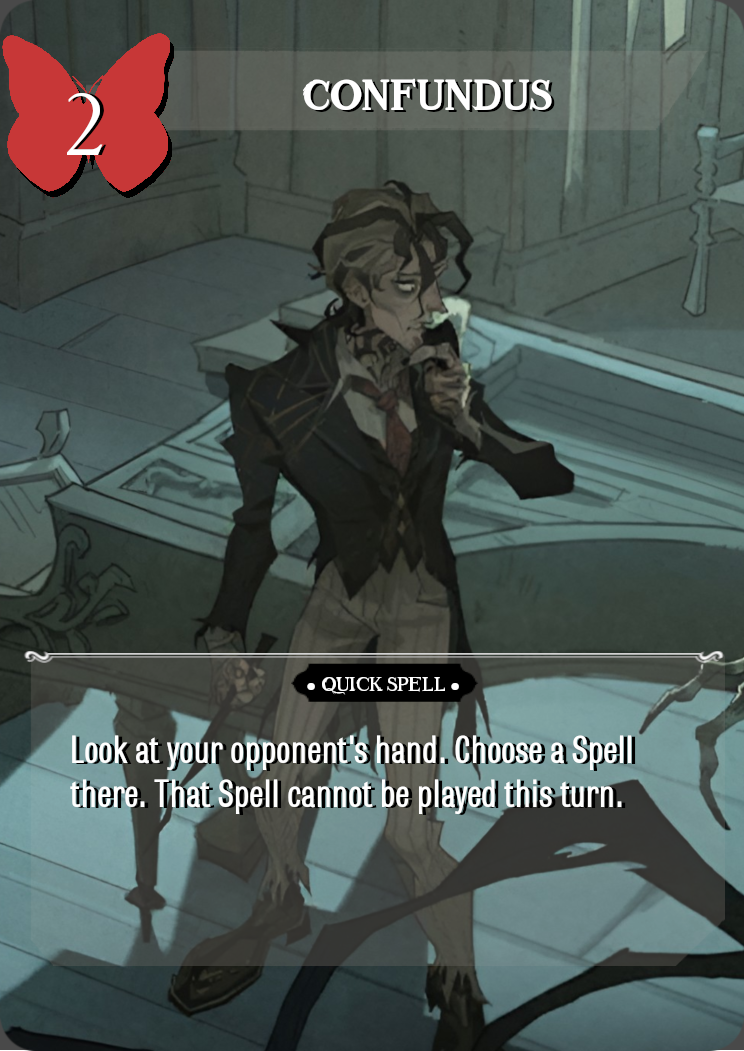
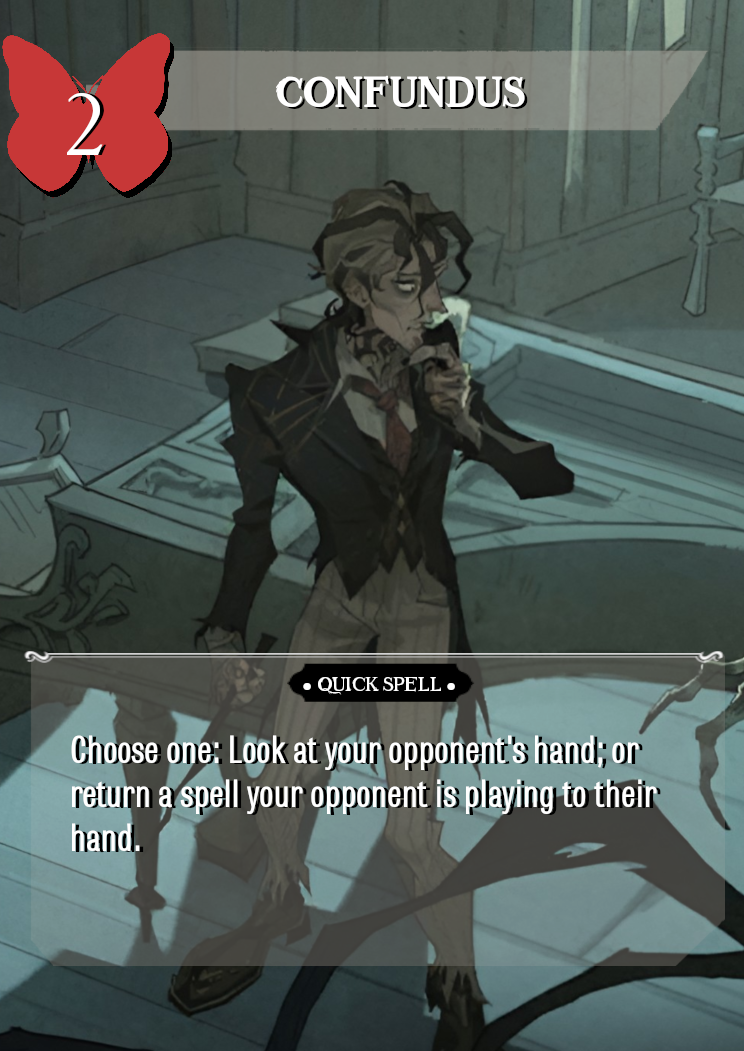
v1.72 Wingardium Leviosa

diff --git a/index.html b/index.html
@@ -97,7 +97,7 @@
 <div class="modal" id="deckCodeModal" style="z-index:1100;width:min(620px,94vw)"><div style="display:flex;justify-content:space-between;align-items:center;gap:8px"><h2 id="deckCodeTitle" style="margin:0">Deck Code</h2><button onclick="closeDeckCodeModal()">Close</button></div><p id="deckCodeHelp"></p><textarea id="deckCodeInput" spellcheck="false" style="width:100%;height:135px;resize:vertical;background:#0e1116;color:#eee;border:1px solid #48515e;border-radius:7px;padding:10px;font:12px monospace;margin:8px 0"></textarea><div style="display:flex;justify-content:flex-end;gap:8px"><button id="deckCodeCopy" onclick="copyDeckCode()">Copy Code</button><button id="deckCodeImport" onclick="importDeckCode()">Import Deck</button></div></div><div class="deckModal" id="deckModal"><div class="deckBox"><div class="deckHead"><b id="deckTitle">Deck</b><button onclick="closeDeckViewer()">Close</button></div><div class="deckControls" id="deckControls"></div><div class="deckCards" id="deckCards"></div></div></div><script src="https://cdn.jsdelivr.net/npm/@supabase/supabase-js@2/dist/umd/supabase.js"></script><script>
 let id=1,phase='setup',turn=1,sel=null,selDeck=null,viewPlayer=1;const P={1:newP(),2:newP()};function newP(){return{main:[],lessonDeck:[],hand:[],handRevealed:false,lessons:[],play:[],discard:[],lessonDiscard:[],mull:[],char:null,life:20,actionsLeft:2,lessonsPlayed:0,dobbyUsed:false}}
 let history=[];function snapshot(){return JSON.parse(JSON.stringify({P,phase,turn}));}function pushHistory(){if(phase!=='game')return;history.push(snapshot());if(history.length>50)history.shift();}function undoMove(){if(lobbyMode==='invite'&&onlineStarted){requestOnlineUndo();return}if(phase!=='game'||!history.length){toast('Nothing to undo.');return}let h=history.pop();Object.keys(P).forEach(k=>P[k]=h.P[k]);phase=h.phase;turn=h.turn;sel=null;selDeck=null;render();document.getElementById('status').textContent='Player '+turn+' Turn';toast('Last action undone.')}
-const CARD_DB={"Harry Potter":{"type":"Ally","domain":"Neutral","cost":0,"effect":"Once per turn, when you play your second card, draw 1 card.","image":"cards/allies/char_harry.png"},"Ron Weasley":{"type":"Ally","domain":"Neutral","cost":0,"effect":"When you play an Ally, it costs 1 Action instead of 2.","image":"cards/allies/char_ron.png"},"Hermione Granger":{"type":"Ally","domain":"Neutral","cost":0,"effect":"Once per turn, when you play your second spell, draw 1 Lesson.","image":"cards/allies/char_hermione.png"},"Luna Lovegood":{"type":"Ally","domain":"Neutral","cost":0,"effect":"Once per turn, if you control 6 or more Lessons, you may discard 2 Lessons to create a Thestral Token.","image":"cards/allies/char_luna.png"},"Neville Longbottom":{"type":"Ally","domain":"Neutral","cost":0,"effect":"Once per turn, when you play a Creature, you may restore 2 Health to a Creature or Player.","image":"cards/allies/char_neville.png"},"Dobby":{"type":"Ally","domain":"Neutral","cost":0,"effect":"Once per turn, you may discard 2 Lessons to destroy a Spell targeting you.","image":"cards/allies/char_dobby.png"},"Aquamenti":{"type":"Spell","domain":"Charms","cost":2,"effect":"Deal 2 damage to a Creature or player.","image":"cards/charms/charm_aguamenti.png"},"Flipendo":{"type":"Quick Spell","domain":"Charms","cost":2,"effect":"Return a Creature with a Cost of 3 or less to its owner's hand.","image":"cards/charms/charm_flipendo.png"},"Stupefy":{"type":"Spell","domain":"Charms","cost":2,"effect":"Deal 2 damage to a Creature or Player. If your opponent controls exactly one Creature, deal 2 additional damage to that Creature or the player.","image":"cards/charms/charm_stupefy.png"},"Episkey":{"type":"Spell","domain":"Charms","cost":2,"effect":"Restore 4 Health to a Creature or Player.","image":"cards/charms/charm_episkey.png"},"Expelliarmus":{"type":"Spell","domain":"Charms","cost":3,"effect":"Deal 2 damage to a Player. Additional Cost — Discard 1 Lesson: Destroy an Ongoing Spell or an Item.","image":"cards/charms/charm_expelliarmus.png"},"Priori Incantatem":{"type":"Spell","domain":"Charms","cost":3,"effect":"Discard a card from your hand. Return a Spell from your discard pile to your hand.","image":"cards/charms/charm_priori.png"},"Protego":{"type":"Quick Spell","domain":"Charms","cost":3,"effect":"Shield 5 to a target.","image":"cards/charms/charm_protego.png"},"Atmospheric Charm":{"type":"Spell","domain":"Charms","cost":5,"effect":"Each Player shuffles their hand into their deck, then draws 4 cards.","image":"cards/charms/charm_atmospheric.png"},"Incendio":{"type":"Spell","domain":"Charms","cost":5,"effect":"Deal 4 damage to a target and 1 damage to each other valid target in play.","image":"cards/charms/charm_incendio.png"},"Reducto":{"type":"Spell","domain":"Charms","cost":6,"effect":"Deal 1 damage to your opponent, plus 1 additional damage for each damage they have taken.","image":"cards/charms/charm_reducto.png"},"Wildfire Whiz Bangs":{"type":"Spell","domain":"Charms","cost":7,"effect":"Deal 7 damage to a Creature or Player.","image":"cards/charms/charm_whizbangs.png"},"Apparate":{"type":"Quick Spell","domain":"Transfiguration","cost":1,"effect":"Choose one: Destroy a Location; or destroy a Spell targeting you.","image":"cards/transfiguration/transf_apparate.png"},"Avis":{"type":"Spell","domain":"Transfiguration","cost":2,"effect":"Additional Cost — Discard 1 Transfiguration Lesson: Create 2 Bird Tokens.","image":"cards/transfiguration/transf_avis.png"},"Confundus":{"type":"Quick Spell","domain":"Transfiguration","cost":2,"effect":"Look at your opponent's hand. Choose a Spell there. That Spell cannot be played this turn.","image":"cards/transfiguration/transf_confundus.png"},"Incarcerous":{"type":"Spell","domain":"Transfiguration","cost":2,"effect":"The next Spell you play this turn that targets an opponent's card affects all valid targets controlled by that opponent instead of one.","image":"cards/transfiguration/transf_incarcerous.png"},"Bat Bogey Hex":{"type":"Quick Spell","domain":"Transfiguration","cost":3,"effect":"Destroy a Spell with a Cost of 4 or less. If you do, draw a card.","image":"cards/transfiguration/transf_batbogeyhex.png"},"Glacius":{"type":"Ongoing Spell","domain":"Transfiguration","cost":2,"effect":"Countdown 1: Freeze a target.","image":"cards/transfiguration/transf_glacius.png"},"Glacius Maxima":{"type":"Ongoing Spell","domain":"Transfiguration","cost":4,"effect":"Countdown 2: Freeze up to 3 targets.","image":"cards/transfiguration/transf_glaciusmaxima.png"},"Oppugno":{"type":"Ongoing Spell","domain":"Transfiguration","cost":3,"effect":"Countdown 1: Deal 1 damage to a Player, plus 1 additional damage for every 2 Creatures you control.","image":"cards/transfiguration/transf_oppugno.png"},"Petrificus Totalus":{"type":"Quick Spell","domain":"Transfiguration","cost":3,"effect":"Choose one: Destroy an ally; or freeze a creature.","image":"cards/transfiguration/transf_petrificus.png"},"Carpe Retractum":{"type":"Spell","domain":"Transfiguration","cost":3,"effect":"Return up to 2 items you control to your hand.","image":"cards/transfiguration/transf_carperetractum.png"},"Piertotum Locomotor":{"type":"Spell","domain":"Transfiguration","cost":6,"effect":"Create 2 Stone Guardian Tokens.","image":"cards/transfiguration/transf_piertotum.png"},"Pawn":{"type":"Creature","domain":"Neutral","cost":2,"health":1,"damage":1,"effect":"When this is destroyed: draw 1 card.","image":"cards/creatures/creature_pawn.png"},"Bowtruckle":{"type":"Creature","domain":"Neutral","cost":2,"health":2,"damage":1,"effect":"When this enters play: look at the top 3 cards of your deck. You may reveal an Item among them and put it into your hand. Put the rest on the bottom.","image":"cards/creatures/creature_bowtruckle.png"},"Mooncalf":{"type":"Creature","domain":"Neutral","cost":2,"health":2,"damage":1,"effect":"The first time you play a Lesson each turn: Mooncalf gets +1 Damage until end of turn.","image":"cards/creatures/creature_mooncalf.png"},"Niffler":{"type":"Creature","domain":"Neutral","cost":2,"health":2,"damage":0,"effect":"Niffler counts as a Lesson while in play.","image":"cards/creatures/creature_niffler.png"},"Pixies":{"type":"Creature","domain":"Neutral","cost":2,"health":1,"damage":2,"effect":"When this enters play: if you control another Creature, draw 1 card.","image":"cards/creatures/creature_pixies.png"},"Snowman":{"type":"Creature","domain":"Neutral","cost":2,"health":3,"damage":1,"effect":"When this deals damage to a Player, Freeze an opposing Creature.","image":"cards/creatures/creature_snowman.png"},"Firecrab":{"type":"Creature","domain":"Neutral","cost":3,"health":4,"damage":2,"effect":"Block (You must deal damage to me first).","image":"cards/creatures/creature_firecrab.png"},"Monster Book":{"type":"Creature","domain":"Neutral","cost":3,"health":3,"damage":2,"effect":"When this enters play: return a Spell with Cost 3 or less from your discard pile to your hand.","image":"cards/creatures/creature_mosterbook.png"},"Transfiguration Lesson":{"type":"Lesson","cost":0,"domain":"Transfiguration","image":"cards/lessons/lesson_transfiguration.png"},"Charm Lesson":{"type":"Lesson","cost":0,"domain":"Charms","image":"cards/lessons/lesson_charm.png"},"Quidditch Lesson":{"type":"Lesson","cost":0,"domain":"Quidditch","image":"cards/lessons/lesson_quidditch.png"},"Potions & Items Lesson":{"type":"Lesson","cost":0,"domain":"Potions","image":"cards/lessons/lesson_potions.png"},"Dark Arts Lesson":{"type":"Lesson","cost":0,"domain":"Dark Arts","image":"cards/lessons/lesson_dark.png"},"Flying Broom":{"type":"Item","domain":"Quidditch","cost":2,"effect":"When this enters play, choose one: Draw 1 card or Discard a card to Draw a lesson.","image":"cards/quidditch/quidd_broom.png"},"Golden Snitch":{"type":"Item","domain":"Quidditch","cost":2,"effect":"When this enters play or is returned to its owner's hand, you may draw 1 card.","image":"cards/quidditch/quidd_snitch.png"},"Golden Snidget":{"type":"Creature","domain":"Quidditch","cost":2,"life":2,"damage":2,"effect":"Whenever this deals damage to a Player, draw a card.","image":"cards/quidditch/quidd_snidget.png"},"Bludger":{"type":"Item","domain":"Quidditch","cost":3,"effect":"When this enters play or is returned to its owner's hand, deal 2 damage to a target.","image":"cards/quidditch/quidd_bludger.png"},"Quidditch Kit":{"type":"Item","domain":"Quidditch","cost":3,"effect":"The first time you play a Quidditch card each turn, look at the top 2 cards of your deck. Put one into your hand and the other on the bottom.","image":"cards/quidditch/quidd_kit.png"},"Winged Catapult":{"type":"Creature","domain":"Quidditch","cost":3,"life":3,"damage":2,"effect":"Whenever this deals damage to a Player, look at the top card of your deck. You may put it on the bottom.","image":"cards/quidditch/quidd_winged.png"},"Beater":{"type":"Ally","domain":"Quidditch","cost":"-","effect":"Once per turn, you may discard a card: Return a Quidditch Item to its owner's hand.","image":"cards/quidditch/quidd_beater.png"},"Seeker":{"type":"Ally","domain":"Quidditch","cost":"-","effect":"Once per turn, search your deck for a Golden Snitch or Quidditch Item, reveal it, put it into your hand, then shuffle.","image":"cards/quidditch/quidd_seeker.png"},"Guardian":{"type":"Ally","domain":"Quidditch","cost":"-","effect":"When damage would be dealt to you or a Quidditch Creature you control, discard me to prevent that damage.","image":"cards/quidditch/quidd_guardian.png"},"Memory Vial":{"type":"Item","domain":"Potions","cost":3,"effect":"Once per turn, you may discard a card from your hand to draw a Lesson.","image":"cards/potions/potinos_memoryvial.png"},"Weasley Firework Box":{"type":"Item","domain":"Potions","cost":4,"effect":"All the creatures your control deal 1 aditional damage.","image":"cards/potions/potinos_wealeyfireworks.png"},"Stone Guardian":{"type":"Creature","domain":"Neutral","cost":0,"health":4,"life":4,"damage":1,"effect":"Block (You must deal damage to me first).","image":"cards/tokens/token_stoneguardian.png","token":true},"Luna's Thestral":{"type":"Creature","domain":"Neutral","cost":0,"health":3,"life":3,"damage":3,"effect":"Sacrifice this and discard 2 Lessons: Deal 2 damage to a target, plus 1 additional damage for each Spell in your discard pile.","image":"cards/tokens/token_thestrals.png","token":true},"Magical Birds":{"type":"Creature","domain":"Neutral","cost":0,"health":1,"life":1,"damage":1,"effect":"","image":"cards/tokens/token_magicalbirds.png","token":true},"Diffindo":{"type":"Spell","domain":"Transfiguration","cost":5,"effect":"Deal 3 damage to a target. Then, deal 3 damage to each Frozen target.","image":"cards/transfiguration/transf_diffindo.png"},"Yeti":{"type":"Creature","domain":"Neutral","cost":5,"health":5,"damage":3,"effect":"Countdown 2: Freeze up to 3 targets.","image":"cards/creatures/creature_yeti.png"},"Orb of Water":{"type":"Ongoing Spell","domain":"Transfiguration","cost":6,"effect":"Countdown 1: Freeze up to 3 targets and deal 1 damage to each of them. When this card is discarded, deal 3 damage to the same targets.","image":"cards/transfiguration/transf_orb.png"},"Accio":{"type":"Spell","domain":"Charms","cost":3,"effect":"Return a Lesson from your discard pile to play.","image":"cards/charms/charm_accio.png"}};const BACKS={main:'cards/backs/main_back.png',lesson:'cards/backs/lesson_back.png'};const cards=Object.entries(CARD_DB).filter(([n,d])=>d.type!=='Lesson'&&!d.token).map(([n,d])=>[n,d.type,d.cost]);
+const CARD_DB={"Harry Potter":{"type":"Ally","domain":"Neutral","cost":0,"effect":"Once per turn, when you play your second card, draw 1 card.","image":"cards/allies/char_harry.png"},"Ron Weasley":{"type":"Ally","domain":"Neutral","cost":0,"effect":"When you play an Ally, it costs 1 Action instead of 2.","image":"cards/allies/char_ron.png"},"Hermione Granger":{"type":"Ally","domain":"Neutral","cost":0,"effect":"Once per turn, when you play your second spell, draw 1 Lesson.","image":"cards/allies/char_hermione.png"},"Luna Lovegood":{"type":"Ally","domain":"Neutral","cost":0,"effect":"Once per turn, if you control 6 or more Lessons, you may discard 2 Lessons to create a Thestral Token.","image":"cards/allies/char_luna.png"},"Neville Longbottom":{"type":"Ally","domain":"Neutral","cost":0,"effect":"Once per turn, when you play a Creature, you may restore 2 Health to a Creature or Player.","image":"cards/allies/char_neville.png"},"Dobby":{"type":"Ally","domain":"Neutral","cost":0,"effect":"Once per turn, you may discard 2 Lessons to destroy a Spell targeting you.","image":"cards/allies/char_dobby.png"},"Aquamenti":{"type":"Spell","domain":"Charms","cost":2,"effect":"Deal 2 damage to a Creature or player.","image":"cards/charms/charm_aguamenti.png"},"Flipendo":{"type":"Quick Spell","domain":"Charms","cost":2,"effect":"Return a Creature with a Cost of 3 or less to its owner's hand.","image":"cards/charms/charm_flipendo.png"},"Stupefy":{"type":"Spell","domain":"Charms","cost":2,"effect":"Deal 2 damage to a Creature or Player. If your opponent controls exactly one Creature, deal 2 additional damage to that Creature or the player.","image":"cards/charms/charm_stupefy.png"},"Episkey":{"type":"Spell","domain":"Charms","cost":2,"effect":"Restore 4 Health to a Creature or Player.","image":"cards/charms/charm_episkey.png"},"Expelliarmus":{"type":"Spell","domain":"Charms","cost":3,"effect":"Deal 2 damage to a Player. Additional Cost — Discard 1 Lesson: Destroy an Ongoing Spell or an Item.","image":"cards/charms/charm_expelliarmus.png"},"Priori Incantatem":{"type":"Spell","domain":"Charms","cost":3,"effect":"Discard a card from your hand. Return a Spell from your discard pile to your hand.","image":"cards/charms/charm_priori.png"},"Protego":{"type":"Quick Spell","domain":"Charms","cost":3,"effect":"Shield 5 to a target.","image":"cards/charms/charm_protego.png"},"Atmospheric Charm":{"type":"Spell","domain":"Charms","cost":5,"effect":"Each Player shuffles their hand into their deck, then draws 4 cards.","image":"cards/charms/charm_atmospheric.png"},"Incendio":{"type":"Spell","domain":"Charms","cost":5,"effect":"Deal 4 damage to a target and 1 damage to each other valid target in play.","image":"cards/charms/charm_incendio.png"},"Reducto":{"type":"Spell","domain":"Charms","cost":6,"effect":"Deal 1 damage to your opponent, plus 1 additional damage for each damage they have taken.","image":"cards/charms/charm_reducto.png"},"Wildfire Whiz Bangs":{"type":"Spell","domain":"Charms","cost":7,"effect":"Deal 7 damage to a Creature or Player.","image":"cards/charms/charm_whizbangs.png"},"Apparate":{"type":"Quick Spell","domain":"Transfiguration","cost":1,"effect":"Choose one: Destroy a Location; or destroy a Spell targeting you.","image":"cards/transfiguration/transf_apparate.png"},"Avis":{"type":"Spell","domain":"Transfiguration","cost":2,"effect":"Additional Cost — Discard 1 Transfiguration Lesson: Create 2 Bird Tokens.","image":"cards/transfiguration/transf_avis.png"},"Confundus":{"type":"Quick Spell","domain":"Transfiguration","cost":2,"effect":"Choose one: Look at your opponent's hand; or return a Spell your opponent is playing to their hand.","image":"cards/transfiguration/transf_confundus.png"},"Incarcerous":{"type":"Spell","domain":"Transfiguration","cost":2,"effect":"The next Spell you play this turn that targets an opponent's card affects all valid targets controlled by that opponent instead of one.","image":"cards/transfiguration/transf_incarcerous.png"},"Bat Bogey Hex":{"type":"Quick Spell","domain":"Transfiguration","cost":3,"effect":"Destroy a Spell with a Cost of 4 or less. If you do, draw a card.","image":"cards/transfiguration/transf_batbogeyhex.png"},"Glacius":{"type":"Ongoing Spell","domain":"Transfiguration","cost":2,"effect":"Countdown 1: Freeze a target.","image":"cards/transfiguration/transf_glacius.png"},"Glacius Maxima":{"type":"Ongoing Spell","domain":"Transfiguration","cost":4,"effect":"Countdown 2: Freeze up to 3 targets.","image":"cards/transfiguration/transf_glaciusmaxima.png"},"Oppugno":{"type":"Ongoing Spell","domain":"Transfiguration","cost":3,"effect":"Countdown 1: Deal 1 damage to a Player, plus 1 additional damage for every 2 Creatures you control.","image":"cards/transfiguration/transf_oppugno.png"},"Petrificus Totalus":{"type":"Quick Spell","domain":"Transfiguration","cost":3,"effect":"Choose one: Destroy an ally; or freeze a creature.","image":"cards/transfiguration/transf_petrificus.png"},"Carpe Retractum":{"type":"Spell","domain":"Transfiguration","cost":3,"effect":"Return up to 2 items you control to your hand.","image":"cards/transfiguration/transf_carperetractum.png"},"Piertotum Locomotor":{"type":"Spell","domain":"Transfiguration","cost":6,"effect":"Create 2 Stone Guardian Tokens.","image":"cards/transfiguration/transf_piertotum.png"},"Pawn":{"type":"Creature","domain":"Neutral","cost":2,"health":1,"damage":1,"effect":"When this is destroyed: draw 1 card.","image":"cards/creatures/creature_pawn.png"},"Bowtruckle":{"type":"Creature","domain":"Neutral","cost":2,"health":2,"damage":1,"effect":"When this enters play: look at the top 3 cards of your deck. You may reveal an Item among them and put it into your hand. Put the rest on the bottom.","image":"cards/creatures/creature_bowtruckle.png"},"Mooncalf":{"type":"Creature","domain":"Neutral","cost":2,"health":2,"damage":1,"effect":"The first time you play a Lesson each turn: Mooncalf gets +1 Damage until end of turn.","image":"cards/creatures/creature_mooncalf.png"},"Niffler":{"type":"Creature","domain":"Neutral","cost":2,"health":2,"damage":0,"effect":"Niffler counts as a Lesson while in play.","image":"cards/creatures/creature_niffler.png"},"Pixies":{"type":"Creature","domain":"Neutral","cost":2,"health":1,"damage":2,"effect":"When this enters play: if you control another Creature, draw 1 card.","image":"cards/creatures/creature_pixies.png"},"Snowman":{"type":"Creature","domain":"Neutral","cost":2,"health":3,"damage":1,"effect":"When this deals damage to a Player, Freeze an opposing Creature.","image":"cards/creatures/creature_snowman.png"},"Firecrab":{"type":"Creature","domain":"Neutral","cost":3,"health":4,"damage":2,"effect":"Block (You must deal damage to me first).","image":"cards/creatures/creature_firecrab.png"},"Monster Book":{"type":"Creature","domain":"Neutral","cost":3,"health":3,"damage":2,"effect":"When this enters play: return a Spell with Cost 3 or less from your discard pile to your hand.","image":"cards/creatures/creature_mosterbook.png"},"Transfiguration Lesson":{"type":"Lesson","cost":0,"domain":"Transfiguration","image":"cards/lessons/lesson_transfiguration.png"},"Charm Lesson":{"type":"Lesson","cost":0,"domain":"Charms","image":"cards/lessons/lesson_charm.png"},"Quidditch Lesson":{"type":"Lesson","cost":0,"domain":"Quidditch","image":"cards/lessons/lesson_quidditch.png"},"Potions & Items Lesson":{"type":"Lesson","cost":0,"domain":"Potions","image":"cards/lessons/lesson_potions.png"},"Dark Arts Lesson":{"type":"Lesson","cost":0,"domain":"Dark Arts","image":"cards/lessons/lesson_dark.png"},"Flying Broom":{"type":"Item","domain":"Quidditch","cost":2,"effect":"When this enters play, choose one: Draw 1 card or Discard a card to Draw a lesson.","image":"cards/quidditch/quidd_broom.png"},"Golden Snitch":{"type":"Item","domain":"Quidditch","cost":2,"effect":"When this enters play or is returned to its owner's hand, you may draw 1 card.","image":"cards/quidditch/quidd_snitch.png"},"Golden Snidget":{"type":"Creature","domain":"Quidditch","cost":2,"life":2,"damage":2,"effect":"Whenever this deals damage to a Player, draw a card.","image":"cards/quidditch/quidd_snidget.png"},"Bludger":{"type":"Item","domain":"Quidditch","cost":3,"effect":"When this enters play or is returned to its owner's hand, deal 2 damage to a target.","image":"cards/quidditch/quidd_bludger.png"},"Quidditch Kit":{"type":"Item","domain":"Quidditch","cost":3,"effect":"The first time you play a Quidditch card each turn, look at the top 2 cards of your deck. Put one into your hand and the other on the bottom.","image":"cards/quidditch/quidd_kit.png"},"Winged Catapult":{"type":"Creature","domain":"Quidditch","cost":3,"life":3,"damage":2,"effect":"Whenever this deals damage to a Player, look at the top card of your deck. You may put it on the bottom.","image":"cards/quidditch/quidd_winged.png"},"Beater":{"type":"Ally","domain":"Quidditch","cost":"-","effect":"Once per turn, you may discard a card: Return a Quidditch Item to its owner's hand.","image":"cards/quidditch/quidd_beater.png"},"Seeker":{"type":"Ally","domain":"Quidditch","cost":"-","effect":"Once per turn, search your deck for a Golden Snitch or Quidditch Item, reveal it, put it into your hand, then shuffle.","image":"cards/quidditch/quidd_seeker.png"},"Guardian":{"type":"Ally","domain":"Quidditch","cost":"-","effect":"When damage would be dealt to you or a Quidditch Creature you control, discard me to prevent that damage.","image":"cards/quidditch/quidd_guardian.png"},"Memory Vial":{"type":"Item","domain":"Potions","cost":3,"effect":"Once per turn, you may discard a card from your hand to draw a Lesson.","image":"cards/potions/potinos_memoryvial.png"},"Weasley Firework Box":{"type":"Item","domain":"Potions","cost":4,"effect":"All the creatures your control deal 1 aditional damage.","image":"cards/potions/potinos_wealeyfireworks.png"},"Stone Guardian":{"type":"Creature","domain":"Neutral","cost":0,"health":4,"life":4,"damage":1,"effect":"Block (You must deal damage to me first).","image":"cards/tokens/token_stoneguardian.png","token":true},"Luna's Thestral":{"type":"Creature","domain":"Neutral","cost":0,"health":3,"life":3,"damage":3,"effect":"Sacrifice this and discard 2 Lessons: Deal 2 damage to a target, plus 1 additional damage for each Spell in your discard pile.","image":"cards/tokens/token_thestrals.png","token":true},"Magical Birds":{"type":"Creature","domain":"Neutral","cost":0,"health":1,"life":1,"damage":1,"effect":"","image":"cards/tokens/token_magicalbirds.png","token":true},"Diffindo":{"type":"Spell","domain":"Transfiguration","cost":5,"effect":"Deal 3 damage to a target. Then, deal 3 damage to each Frozen target.","image":"cards/transfiguration/transf_diffindo.png"},"Yeti":{"type":"Creature","domain":"Neutral","cost":5,"health":5,"damage":3,"effect":"Countdown 2: Freeze up to 3 targets.","image":"cards/creatures/creature_yeti.png"},"Orb of Water":{"type":"Ongoing Spell","domain":"Transfiguration","cost":6,"effect":"Countdown 1: Freeze up to 3 targets and deal 1 damage to each of them. When this card is discarded, deal 3 damage to the same targets.","image":"cards/transfiguration/transf_orb.png"},"Accio":{"type":"Spell","domain":"Charms","cost":3,"effect":"Return a Lesson from your discard pile to play.","image":"cards/charms/charm_accio.png"},"Wingardium Leviosa":{"type":"Spell","domain":"Charms","cost":3,"effect":"Additional Cost — Discard 1 Lesson: You may return an Item you control to your hand. If you paid the additional cost, return an Item from your discard pile to your hand.","image":"cards/charms/charm_wingardium.png"}};const BACKS={main:'cards/backs/main_back.png',lesson:'cards/backs/lesson_back.png'};const cards=Object.entries(CARD_DB).filter(([n,d])=>d.type!=='Lesson'&&!d.token).map(([n,d])=>[n,d.type,d.cost]);
 function C(n,t,c,img=null){return{id:id++,name:n,type:t,cost:c,counter:0,life:t==='Creature'?null:null,image:img,face:1,tapped:false,frozen:false,shield:false,rot:0,x:10,y:10}}function sh(a){for(let i=a.length-1;i>0;i--){let j=Math.random()*(i+1)|0;[a[i],a[j]]=[a[j],a[i]]}return a}function cardFromDB(name,extra={}){let d=CARD_DB[name];if(!d)throw new Error('Card not found in database: '+name);return C(name,d.type,d.cost,extra.image||d.image||null)}function buildCards(list){return list.flatMap(entry=>{if(typeof entry==='string')return[cardFromDB(entry)];let n=entry.name,count=entry.count||1;return Array.from({length:count},()=>cardFromDB(n,entry))})}function draw(p,n=1){while(n--&&P[p].main.length)P[p].hand.push(P[p].main.pop())}function toast(t){let x=document.getElementById('toast');x.textContent=t;x.classList.add('show');setTimeout(()=>x.classList.remove('show'),1300)}
 let loadedDecks={1:null,2:null};
 let savedDecks=loadSavedDecks();
